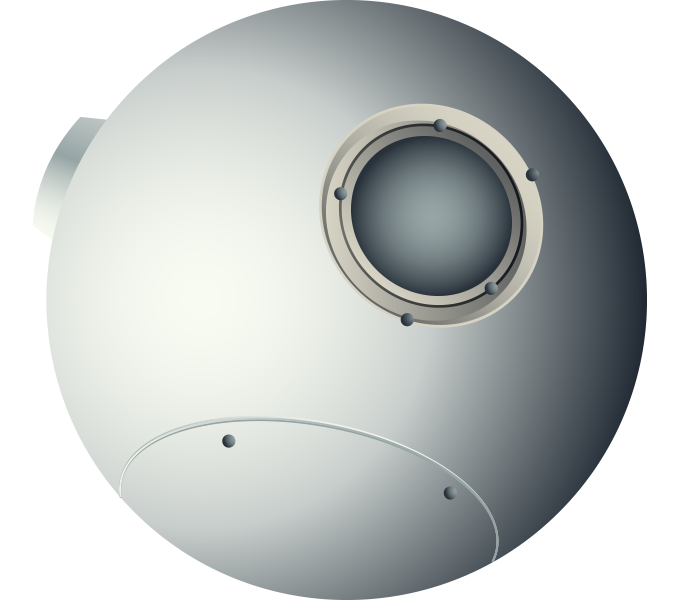
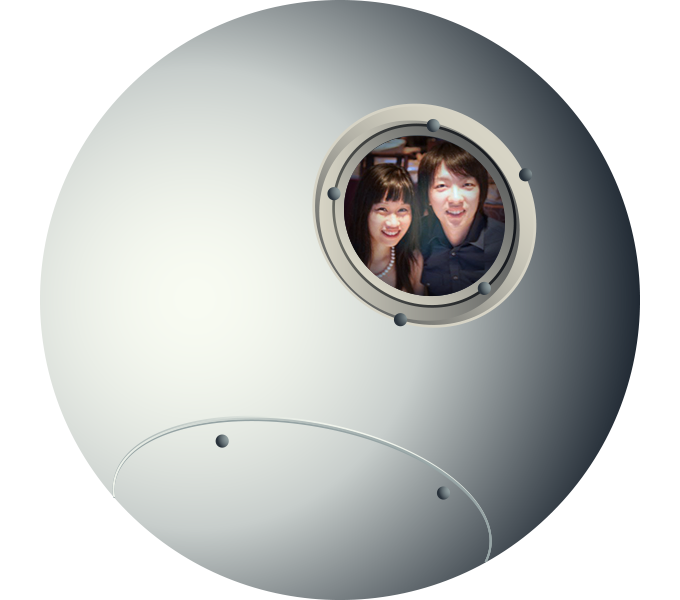
Updated space ball graphic Changed order Added last proposal section

diff --git a/index.html b/index.html
@@ -49,7 +49,30 @@
                         <h1>1,825</h1>
                         <div class="unit">DAYS</div>
                         <p class="stat-detail">Since we started to hang out</p>
-                        <a href="#travel" class="button" style="margin-top: 140px;">NEXT</a>
+                        <a href="#music" class="button" style="margin-top: 140px;">NEXT</a>
+                    </div>
+                </div>
+            </div>
+        </section>
+
+        <section id="music">
+            <div class="content">
+                <div class="row">
+                    <div class="span12 center">
+                        <h1>Artists We Listened</h1>
+                        <ul class="artists">
+                            <li><img src="/img/artist-eir-aoi.jpg" alt="Eir Aoi"></li>
+                            <li><img src="/img/artist-perfume.jpg" alt="Perfume"></li>
+                            <li><img src="/img/artist-hiromi-uehara.jpg" alt="Hiromi Uehara"></li>
+                            <li><img src="/img/artist-kumi-koda.jpg" alt="Kumi Koda"></li>
+                            <li><img src="/img/artist-miku-hatsune.jpg" alt="Miku Hatsune"></li>
+                            <li><img src="/img/artist-nana-mizuki.jpg" alt="Nana Mizuki"></li>
+                            <li><img src="/img/artist-sayuri-sugawara.jpg" alt="Sayuri Sugawara"></li>
+                            <li><img src="/img/artist-ai-ootsuka.jpg" alt="Ai Ootsuka"></li>
+                            <li><img src="/img/artist-ken-hirai.jpg" alt="Ken Hirai"></li>
+                            <li><img src="/img/artist-ikimonogakari.jpg" alt="Ikimonogakari"></li>
+                        </ul>
+                        <a href="#travel" class="button" style="margin-top: 60px;">NEXT</a>
                     </div>
                 </div>
             </div>
@@ -77,29 +100,6 @@
                         <hr>
                         <h1>2 <span class="unit">COUNTRIES</span></h1>
                         <p class="stat-detail">We traveled so far</p>
-                        <a href="#music" class="button" style="margin-top: 140px;">NEXT</a>
-                    </div>
-                </div>
-            </div>
-        </section>
-
-        <section id="music">
-            <div class="content">
-                <div class="row">
-                    <div class="span12 center">
-                        <h1>Music We Listened</h1>
-                        <ul class="artists">
-                            <li><img src="/img/artist-eir-aoi.jpg" alt="Eir Aoi"></li>
-                            <li><img src="/img/artist-perfume.jpg" alt="Perfume"></li>
-                            <li><img src="/img/artist-hiromi-uehara.jpg" alt="Hiromi Uehara"></li>
-                            <li><img src="/img/artist-kumi-koda.jpg" alt="Kumi Koda"></li>
-                            <li><img src="/img/artist-miku-hatsune.jpg" alt="Miku Hatsune"></li>
-                            <li><img src="/img/artist-nana-mizuki.jpg" alt="Nana Mizuki"></li>
-                            <li><img src="/img/artist-sayuri-sugawara.jpg" alt="Sayuri Sugawara"></li>
-                            <li><img src="/img/artist-ai-ootsuka.jpg" alt="Ai Ootsuka"></li>
-                            <li><img src="/img/artist-ken-hirai.jpg" alt="Ken Hirai"></li>
-                            <li><img src="/img/artist-ikimonogakari.jpg" alt="Ikimonogakari"></li>
-                        </ul>
                         <a href="#anime" class="button" style="margin-top: 140px;">NEXT</a>
                     </div>
                 </div>
@@ -123,7 +123,7 @@
                             <li><img src="/img/anime-polar-bear-cafe.jpg" alt="Polar Bear Cafe"></li>
                             <li><img src="/img/anime-steins-gate.jpg" alt="Steins Gate"></li>
                         </ul>
-                        <a href="#food" class="button" style="margin-top: 140px;">NEXT</a>
+                        <a href="#cats" class="button" style="margin-top: 60px;">NEXT</a>
                     </div>
                 </div>
             </div>
@@ -143,13 +143,18 @@
 
         <section id="proposal">
             <div class="content">
-                <div class="row">
+                <div class="row phase1">
                     <div class="col-md-10 col-md-offset-1 center">
                         <h1>Are you ready for<br>the new adventure?</h1>
                         <div style="margin-top: 100px;">
-                            <a id="answer-yes" href="#" class="button" style="float: left; width: 400px;">Yes</a>
+                            <a id="answer-yes" href="" class="button" style="float: left; width: 400px;">Yes</a>
                             <a id="answer-no" href="#" class="button" style="float: right; width: 400px;">No</a>
                         </div>
+                    </div>
+                </div>
+                <div class="row phase2" style="margin-top: 160px;">
+                    <div class="col-md-10 col-md-offset-1 center">
+                        <h1>OK, now close your eyes...</h1>
                     </div>
                 </div>
             </div>

diff --git a/js/main.js b/js/main.js
@@ -22,7 +22,7 @@ jQuery('.button').each(function(){
 
     jQuery('#answer-no').mouseover(function(){
         var current_choice = jQuery(this).text();
-        if (current_choice = 'No') {
+        if (current_choice == 'No') {
             jQuery(this).text('Yes');
             jQuery('#answer-yes').text('No');
         } else {
@@ -33,13 +33,20 @@ jQuery('.button').each(function(){
 
     jQuery('#answer-yes').mouseover(function(){
         var current_choice = jQuery(this).text();
-        if (current_choice = 'No') {
+        if (current_choice == 'No') {
             jQuery(this).text('Yes');
             jQuery('#answer-no').text('No');
         } else {
             jQuery(this).text('No');
             jQuery('#answer-no').text('Yes');
         }
+    });
+
+    jQuery('#answer-yes').click(function(event){
+        if (event.preventDefault) { event.preventDefault(); } else { event.returnValue = false; }
+        jQuery('#proposal .phase1').hide();
+        jQuery('#proposal .phase2').show();
+        return false;
     });
 
     // RoyalSlider

diff --git a/css/base.css b/css/base.css
@@ -533,3 +533,7 @@ section#cats {
 section#proposal {
   height: 700px;
 }
+/* line 77, sass/_sections.scss */
+section#proposal .phase2 {
+  display: none;
+}

diff --git a/css/sass/_sections.scss b/css/sass/_sections.scss
@@ -74,4 +74,7 @@ section#cats {
 
 section#proposal {
     height: 700px;
+    .phase2 {
+        display: none
+    }
 }
